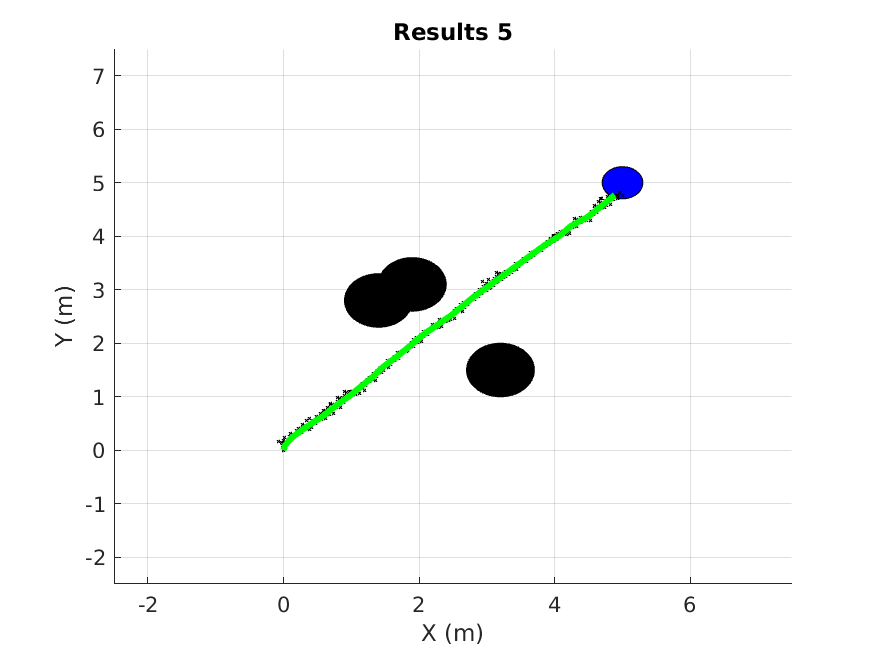
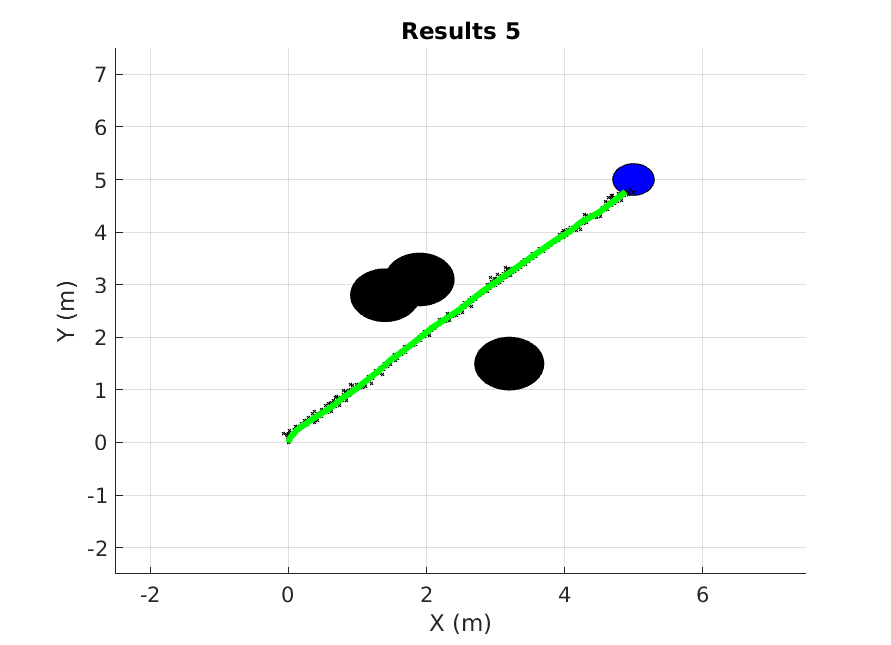
up

diff --git a/sbmpo_models/matlab/BookModelVisualizer.m b/sbmpo_models/matlab/BookModelVisualizer.m
@@ -1,5 +1,5 @@
 %% SBMPO Results Visualizer
-
+close all
 obstacles_csv = readmatrix("../results/obstacles.csv");
 
 % Set obstacles
